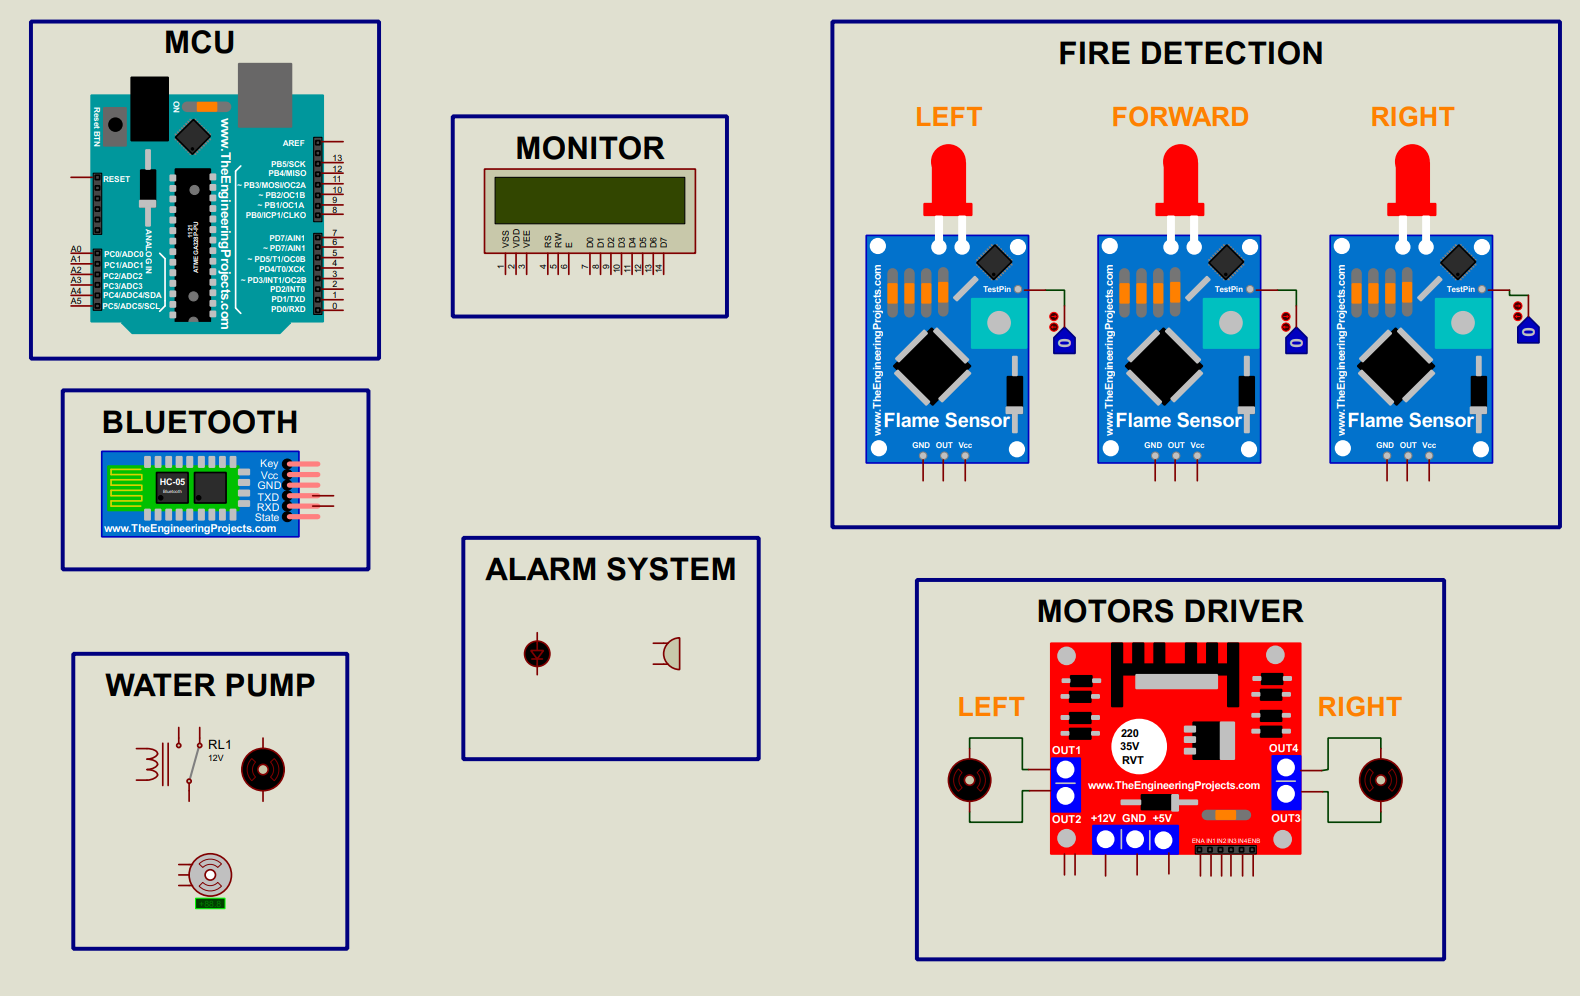
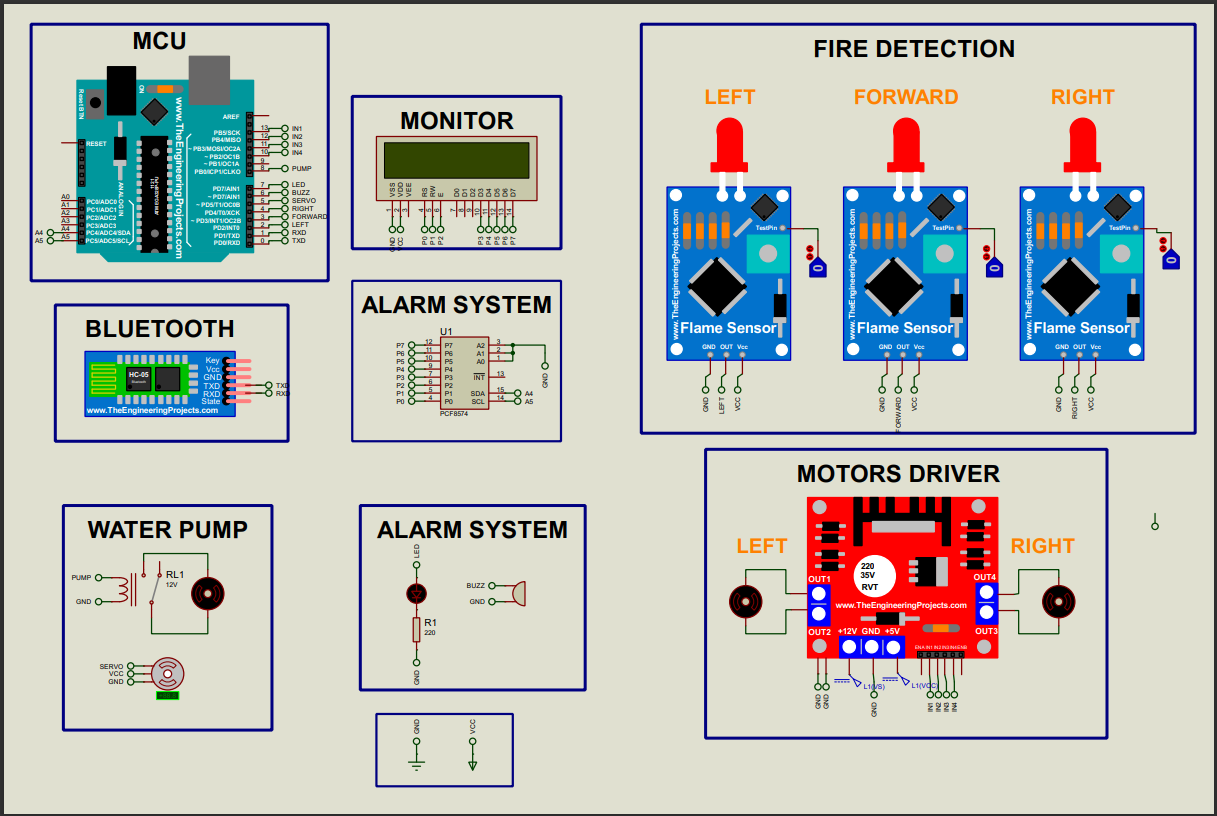
Last Update

Changed region(s): [[0.0, 0.0, 1.0, 1.0], [0.281, 0.5208, 0.4996, 0.8885], [0.5933, 0.0919, 0.6245, 0.1532]]

diff --git a/src/main.cpp b/src/main.cpp
@@ -8,38 +8,39 @@
 #include <Arduino.h>
 #include <Wire.h>
 #include <SoftwareSerial.h>
-#include <LiquidCrystal.h>
+// #include <LiquidCrystal.h>
+#include <LiquidCrystal_I2C.h>
 #include <Servo.h>
 /*************** Macro Defentions Section ***************/
-//#define LCD_RS                    (13)
-#define LCD_EN                    (12)
-#define LCD_D4                    (11)
-#define LCD_D5                    (10)
-#define LCD_D6                    (9)
-#define LCD_D7                    (8)
+#define LCD_SDA                   (A4)
+#define LCD_SCL                   (A5)
 
-#define ALARM_RED_LED             (LED_BUILTIN)
-#define ALARM_BUZZER              (6)
+#define ALARM_RED_LED             (2)
+#define ALARM_BUZZER              (3)
 
-#define MOTOR_A_IN1               (5)
-#define MOTOR_A_IN2               (4)
-#define MOTOR_B_IN1               (3)
-#define MOTOR_B_IN2               (2)
+#define MOTOR_A_IN1               (10)
+#define MOTOR_A_IN2               (11)
+#define MOTOR_B_IN1               (13)
+#define MOTOR_B_IN2               (12)
 
-#define BLUETOOTH_RX              (1)
-#define BLUETOOTH_TX              (0)
+// #define BLUETOOTH_RX              (4)
+// #define BLUETOOTH_TX              (5)
 
-#define FLAME_SENSOR_FORWARD      (A0)
-#define FLAME_SENSOR_RIGHT        (A1)
-#define FLAME_SENSOR_LEFT         (A2)
+#define FLAME_SENSOR_FORWARD      (8)
+#define FLAME_SENSOR_RIGHT        (7)
+#define FLAME_SENSOR_LEFT         (9)
+
+#define FLAME_READ_FORWARD        (A0)
+#define FLAME_READ_RIGHT          (A1)
+#define FLAME_READ_LEFT           (A2)
 
 #define NO_FLAME                  (0)
 #define LEFT_FLAME                (1)
 #define RIGHT_FLAME               (2)
 #define FORWARD_FLAME             (3)
 
-#define PUMP_RELAY_PIN            (A3)
-#define SERVO_PIPE_PIN            (A4)
+#define PUMP_RELAY_PIN            (4)
+#define SERVO_PIPE_PIN            (5)
 
 
 /*************** Function Decleration Section ***************/
@@ -48,26 +49,30 @@ void moveBack();
 void turnLeft();
 void turnRight();
 void stop();
-void startAlarmSystem();
-void stopAlarmSystem();
+void PrintLCD(bool STATE, String DIRECTION);
+// void startAlarmSystem();
+// void stopAlarmSystem();
 uint8_t detectFireDirection();
 void movePipe();
 void firefighting();
 void RemoteControlMode();
+void AutonomousFirefightingMode();
 
 
 /*************** Global Decleration Section ***************/
-//LiquidCrystal LCD(LCD_RS, LCD_EN, LCD_D4, LCD_D5, LCD_D6, LCD_D7);
-
-SoftwareSerial Bluetooth_Serial(BLUETOOTH_TX, BLUETOOTH_RX);
-
+// LiquidCrystal LCD(LCD_RS, LCD_EN, LCD_D4, LCD_D5, LCD_D6, LCD_D7);
+// SoftwareSerial Bluetooth_Serial(BLUETOOTH_TX, BLUETOOTH_RX);
 Servo Pipe;
 
+LiquidCrystal_I2C lcd(0x27, 16, 2);
+
+char controlSignal;
+
+bool autonomousMode = false;
 
 /*************** Setup Application Section ***************/
 void setup(){
- // LCD.begin(16, 2);
-
+  // LCD.begin(16, 2);
   pinMode(ALARM_RED_LED, OUTPUT);
   pinMode(ALARM_BUZZER, OUTPUT);
 
@@ -76,34 +81,38 @@ void setup(){
   pinMode(MOTOR_B_IN1, OUTPUT);
   pinMode(MOTOR_B_IN2, OUTPUT);
 
-  Bluetooth_Serial.begin(9600);
-  Serial.begin(9600);
-
   pinMode(FLAME_SENSOR_FORWARD, INPUT);
   pinMode(FLAME_SENSOR_RIGHT, INPUT);
   pinMode(FLAME_SENSOR_LEFT, INPUT);
 
+  pinMode(PUMP_RELAY_PIN, OUTPUT);
+  // Bluetooth_Serial.begin(9600);
+  Serial.begin(9600);
   Pipe.attach(SERVO_PIPE_PIN);
   Pipe.write(90);
+
+  lcd.init();         
+  lcd.backlight();    
 }
 
 
 /*************** Start Application Section ***************/
 void loop(){
-  
+  RemoteControlMode();
 }
 
 
 /*************** Function Defentions Section ***************/
-void PrintLCD(bool STATE, String DIRECTION){
-  // LCD.setCursor(0, 0);
-  // LCD.print("Pump State: ");
-  // LCD.print(STATE ? "ON" : "OFF");
+void PrintLCD(bool STATE, String DIRECTION) {
+  lcd.clear();
+  lcd.setCursor(0, 0);
+  lcd.print("Pump State: ");
+  lcd.print(STATE ? "ON" : "OFF");
 
-  // LCD.setCursor(0, 1);
-  // LCD.print("Fire: ");
-  // LCD.print(DIRECTION);
-}
+  lcd.setCursor(0, 1);
+  lcd.print("Fire: ");
+  lcd.print(DIRECTION);
+ }
 
 
 void moveForward(){
@@ -123,18 +132,18 @@ void moveBack(){
 
 
 void turnLeft(){
-  digitalWrite(MOTOR_A_IN1, LOW);
-  digitalWrite(MOTOR_A_IN2, HIGH);
-  digitalWrite(MOTOR_B_IN1, HIGH);
-  digitalWrite(MOTOR_B_IN2, LOW);
-}
-
-
-void turnRight(){
   digitalWrite(MOTOR_A_IN1, HIGH);
   digitalWrite(MOTOR_A_IN2, LOW);
   digitalWrite(MOTOR_B_IN1, LOW);
   digitalWrite(MOTOR_B_IN2, HIGH);
+}
+
+
+void turnRight(){
+  digitalWrite(MOTOR_A_IN1, LOW);
+  digitalWrite(MOTOR_A_IN2, HIGH);
+  digitalWrite(MOTOR_B_IN1, HIGH);
+  digitalWrite(MOTOR_B_IN2, LOW);
 }
 
 
@@ -147,23 +156,7 @@ void stop(){
 
 
 uint8_t detectFireDirection(){
-  int left = digitalRead(FLAME_SENSOR_LEFT);
-  int right = digitalRead(FLAME_SENSOR_RIGHT);
-  int forward = digitalRead(FLAME_SENSOR_FORWARD);
-
-  /* Priority : Forward > Right > Left */
-  if (forward == HIGH){
-    return FORWARD_FLAME;
-  }
-  else if (right == HIGH){
-    return RIGHT_FLAME;
-  } 
-  else if (left == HIGH){
-    return LEFT_FLAME;
-  } 
-  else{
-    return NO_FLAME;
-  }
+  
 }
 
 
@@ -181,56 +174,91 @@ void movePipe(){
 
 void firefighting(){
   digitalWrite(PUMP_RELAY_PIN, HIGH);
-  movePipe();  
+  movePipe();
   digitalWrite(PUMP_RELAY_PIN, LOW);
 }
 
 
-void startAlarmSystem(){
-  digitalWrite(ALARM_RED_LED, HIGH); 
-  digitalWrite(ALARM_BUZZER, HIGH); 
-  delay(100);
+// void startAlarmSystem(){
+//   digitalWrite(ALARM_RED_LED, HIGH); 
+//   digitalWrite(ALARM_BUZZER, HIGH); 
+//   delay(100);
     
-  digitalWrite(ALARM_RED_LED, LOW); 
-  digitalWrite(ALARM_BUZZER, LOW); 
-  delay(100);  
-}
+//   digitalWrite(ALARM_RED_LED, LOW); 
+//   digitalWrite(ALARM_BUZZER, LOW); 
+//   delay(100);  
+// }
 
 
-void stopAlarmSystem(){
-  digitalWrite(ALARM_RED_LED, LOW); 
-  digitalWrite(ALARM_BUZZER, LOW); 
-}
+// void stopAlarmSystem(){
+//   digitalWrite(ALARM_RED_LED, LOW); 
+//   digitalWrite(ALARM_BUZZER, LOW); 
+// }
 
 
-void RemoteControlMode(){
-  while (Serial.available()){
-    char controlSignal = Serial.read();    // Read the received character from Bluetooth or Serial
-    Serial.println(controlSignal);    // Print the received character
+void RemoteControlMode() {
+  while (Serial.available()) {
+    controlSignal = Serial.read();
+    Serial.println(controlSignal);
     delay(5);
-    // Process the received character
-    if (controlSignal == 'F') {        // If 'F' is received, move forward
+    if (controlSignal == 'F') {
+      PrintLCD(false, "Forward");
       moveForward();
       delay(10);
     }
-    if (controlSignal == 'R') {        // If 'R' is received, turn right
+    if (controlSignal == 'R') {
+      PrintLCD(false, "RIGHT");
       turnRight();
       delay(10);
     }
-    if (controlSignal == 'L') {        // If 'L' is received, turn left
+    if (controlSignal == 'L') {
+      PrintLCD(false, "LEFT");
       turnLeft();
       delay(10);
     }
-    if (controlSignal == 'G') {        // If 'B' is received, move in reverse
+    if (controlSignal == 'G') {
+      PrintLCD(false, "BACK");
       moveBack();
       delay(5);
     }
-    if (controlSignal == 'S') {        // If 'S' is received, stop all motors
+    if (controlSignal == 'S') {
+      PrintLCD(false, "STOP");
       stop();
       delay(10);
     }
-    if (controlSignal == 'X') {        // If 'O' is received, move servo motor
-      movePipe();
+    if (controlSignal == 'X') {
+      firefighting();
     }
+    if (controlSignal == 'M') {
+      autonomousMode = false;
+      PrintLCD(false, "Manual Mode");
+    }
+  }
+}
+
+
+void AutonomousFirefightingMode(){
+  uint8_t fireDirection = detectFireDirection();
+  switch (fireDirection) {
+    case FORWARD_FLAME:
+      firefighting();
+      PrintLCD(true, "Forward");
+      break;
+    case RIGHT_FLAME:
+      turnRight();
+      delay(500);
+      firefighting();
+      PrintLCD(true, "Right");
+      break;
+    case LEFT_FLAME:
+      turnLeft();
+      delay(500);
+      firefighting();
+      PrintLCD(true, "Left");
+      break;
+    case NO_FLAME:
+      stop();
+      PrintLCD(false, "No Fire");
+      break;
   }
 }
